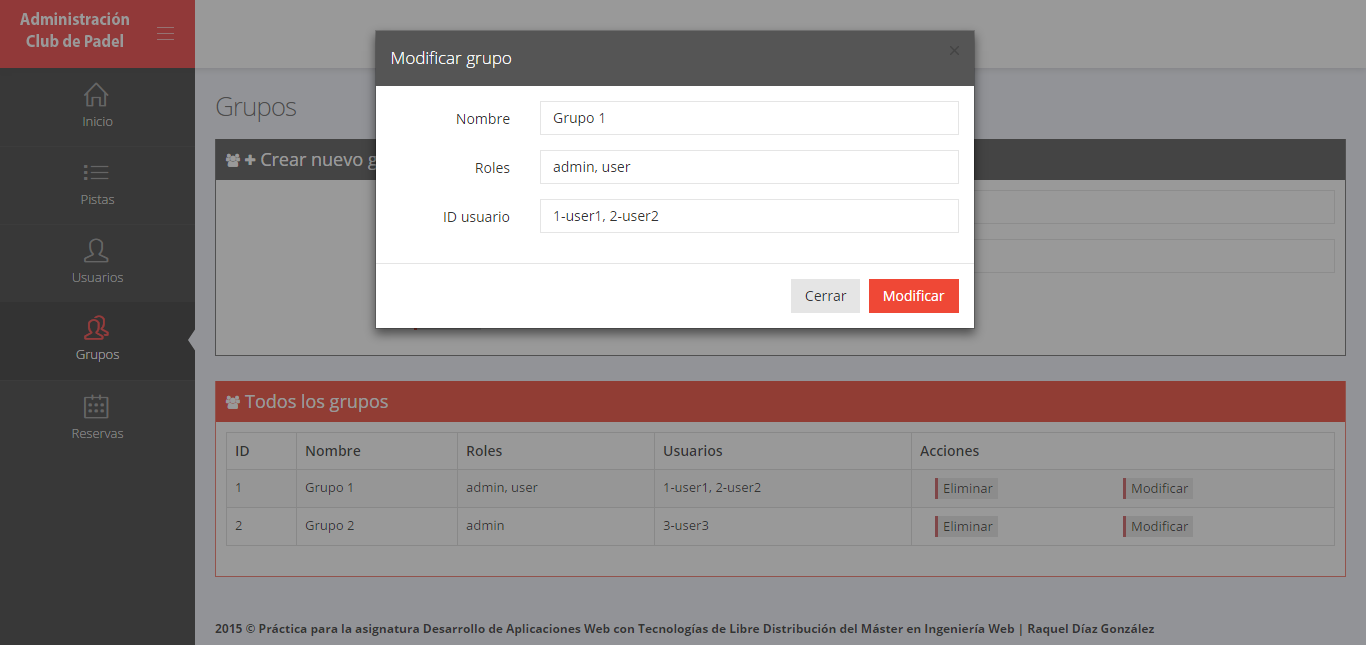
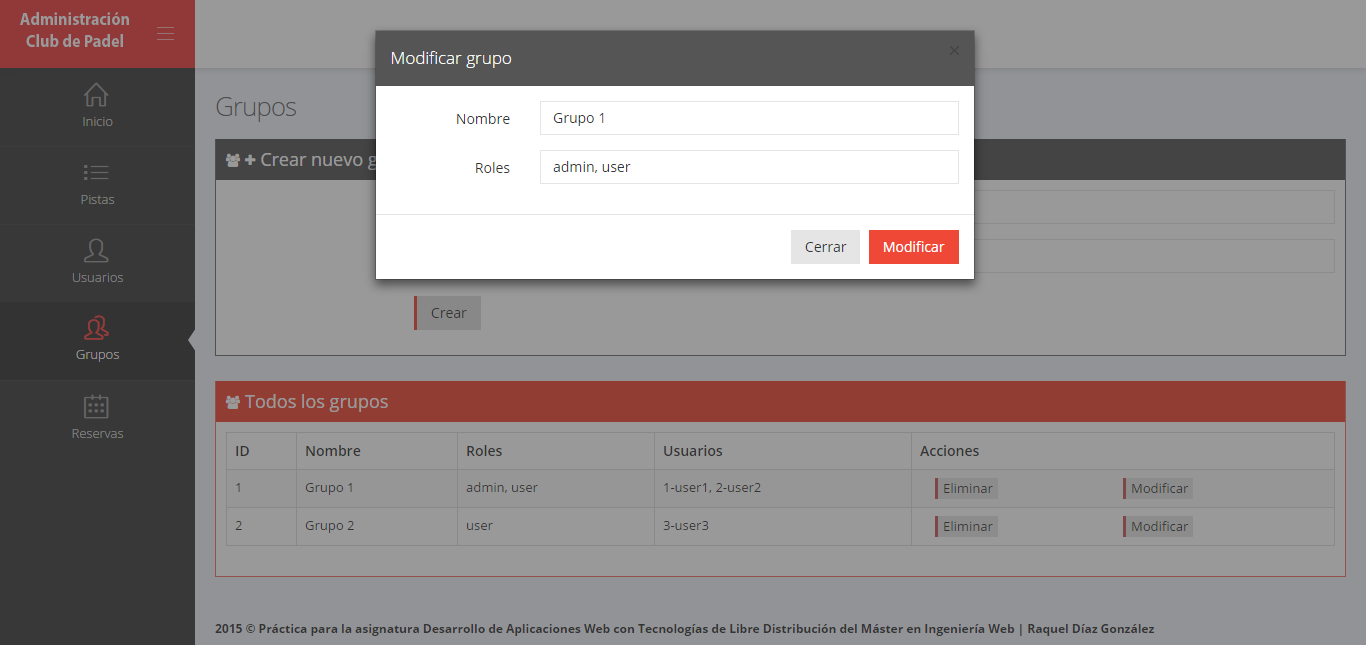
Añadidos campos obligatorios a los formularios

diff --git a/public/templates/admin/users.php b/public/templates/admin/users.php
@@ -32,31 +32,31 @@ $users = $userRepository->findAll();
                                 <div class="form-group">
                                     <label class="col-md-3 control-label">Nombre</label>
                                     <div class="col-md-9">
-                                        <input type="text" class="form-control" placeholder="Nombre de usuario" name="username">
+                                        <input type="text" class="form-control" placeholder="Nombre de usuario" name="username" required>
                                     </div>
                                 </div>
                                 <div class="form-group">
                                     <label class="col-md-3 control-label">Email</label>
                                     <div class="col-md-9">
-                                        <input type="email" class="form-control" placeholder="Email" name="email">
+                                        <input type="email" class="form-control" placeholder="Email" name="email" required>
                                     </div>
                                 </div>
                                 <div class="form-group">
                                     <label class="col-md-3 control-label">Contraseña</label>
                                     <div class="col-md-9">
-                                        <input type="password" class="form-control" placeholder="Contraseña" name="password">
+                                        <input type="password" class="form-control" placeholder="Contraseña" name="password" required>
                                     </div>
                                 </div>
                                 <div class="form-group">
                                     <label class="col-md-3 control-label">Roles</label>
                                     <div class="col-md-9">
-                                        <input type="text" class="form-control" placeholder="Roles ej.) rol1 rol2 rol3 ..." name="roles">
+                                        <input type="text" class="form-control" placeholder="Roles ej.) rol1 rol2 rol3 ..." name="roles" required>
                                     </div>
                                 </div>
                                 <div class="form-group">
                                     <label class="col-md-3 control-label">ID grupo</label>
                                     <div class="col-md-9">
-                                        <input type="text" class="form-control" placeholder="ID del grupo" name="groupID">
+                                        <input type="text" class="form-control" placeholder="ID del grupo" name="groupID" required>
                                     </div>
                                 </div>
                                 <div class="form-group">
@@ -229,31 +229,31 @@ $users = $userRepository->findAll();
                                     <div class="form-group">
                                         <label class="col-md-3 control-label">Nombre</label>
                                         <div class="col-md-9">
-                                            <input type="text" class="form-control" placeholder="Nombre de usuario" name="username" value="<?php echo $user->getUsername(); ?>">
+                                            <input type="text" class="form-control" placeholder="Nombre de usuario" name="username" value="<?php echo $user->getUsername(); ?>" required>
                                         </div>
                                     </div>
                                     <div class="form-group">
                                         <label class="col-md-3 control-label">Email</label>
                                         <div class="col-md-9">
-                                            <input type="email" class="form-control" placeholder="Email" name="email" value="<?php echo $user->getEmail(); ?>">
+                                            <input type="email" class="form-control" placeholder="Email" name="email" value="<?php echo $user->getEmail(); ?>" required>
                                         </div>
                                     </div>
                                     <div class="form-group">
                                         <label class="col-md-3 control-label">Contraseña</label>
                                         <div class="col-md-9">
-                                            <input type="password" class="form-control" placeholder="Contraseña" name="password" value="<?php echo $user->getPassword(); ?>">
+                                            <input type="password" class="form-control" placeholder="Contraseña" name="password" value="<?php echo $user->getPassword(); ?>" required>
                                         </div>
                                     </div>
                                     <div class="form-group">
                                         <label class="col-md-3 control-label">Roles</label>
                                         <div class="col-md-9">
-                                            <input type="text" class="form-control" placeholder="Roles ej.) rol1 rol2 rol3 ..." name="roles" value="<?php echo implode(", ", $user->getRoles()); ?>">
+                                            <input type="text" class="form-control" placeholder="Roles ej.) rol1 rol2 rol3 ..." name="roles" value="<?php echo implode(", ", $user->getRoles()); ?>" required>
                                         </div>
                                     </div>
                                     <div class="form-group">
                                         <label class="col-md-3 control-label">ID grupo</label>
                                         <div class="col-md-9">
-                                            <input type="text" class="form-control" placeholder="ID del grupo" name="groupID"value="<?php echo implode(", ", $user->getGroup()->getValues()); ?>">
+                                            <input type="text" class="form-control" placeholder="ID del grupo" name="groupID"value="<?php echo implode(", ", $user->getGroup()->getValues()); ?>" required>
                                         </div>
                                     </div>
                                 </div>

diff --git a/public/templates/admin/reservations.php b/public/templates/admin/reservations.php
@@ -32,19 +32,19 @@ $reservations = $reservationRepository->findAll();
                                 <div class="form-group">
                                     <label class="col-md-3 control-label">Fecha y hora</label>
                                     <div class="col-md-9">
-                                        <input type="text" class="form-control form-control-inline date form_datetime" size="16" placeholder="Fecha y hora" name="datetime" id="datetime">
+                                        <input type="text" class="form-control form-control-inline date form_datetime" size="16" placeholder="Fecha y hora" name="datetime" id="datetime" required>
                                     </div>
                                 </div>
                                 <div class="form-group">
                                     <label class="col-md-3 control-label">ID pista</label>
                                     <div class="col-md-9">
-                                        <input type="text" class="form-control" placeholder="ID de la pista" name="pistaID">
+                                        <input type="text" class="form-control" placeholder="ID de la pista" name="pistaID" required>
                                     </div>
                                 </div>
                                 <div class="form-group">
                                     <label class="col-md-3 control-label">ID usuario</label>
                                     <div class="col-md-9">
-                                        <input type="text" class="form-control" placeholder="ID del usuario" name="usuarioID">
+                                        <input type="text" class="form-control" placeholder="ID del usuario" name="usuarioID" required>
                                     </div>
                                 </div>
                                 <div class="form-group">
@@ -140,19 +140,19 @@ $reservations = $reservationRepository->findAll();
                                     <div class="form-group">
                                         <label class="col-md-3 control-label">Fecha y hora</label>
                                         <div class="col-md-9">
-                                            <input type="text" class="form-control form-control-inline date form_datetime" size="16" value="<?php $reservation->getDatetime()->format('d-m-Y H:i:s'); ?>" name="datetime" id="datetime">
+                                            <input type="text" class="form-control form-control-inline date form_datetime" size="16" value="<?php $reservation->getDatetime()->format('d-m-Y H:i:s'); ?>" name="datetime" id="datetime" required>
                                         </div>
                                     </div>
                                     <div class="form-group">
                                         <label class="col-md-3 control-label">ID pista</label>
                                         <div class="col-md-9">
-                                            <input type="text" class="form-control" placeholder="ID de la pista" name="pistaID" value="<?php echo $reservation->getCourt(); ?>">
+                                            <input type="text" class="form-control" placeholder="ID de la pista" name="pistaID" value="<?php echo $reservation->getCourt(); ?>" required>
                                         </div>
                                     </div>
                                     <div class="form-group">
                                         <label class="col-md-3 control-label">ID usuario</label>
                                         <div class="col-md-9">
-                                            <input type="text" class="form-control" placeholder="ID del usuario" name="usuarioID" value="<?php echo $reservation->getUser(); ?>">
+                                            <input type="text" class="form-control" placeholder="ID del usuario" name="usuarioID" value="<?php echo $reservation->getUser(); ?>" required>
                                         </div>
                                     </div>
                                 </div>

diff --git a/public/templates/admin/groups.php b/public/templates/admin/groups.php
@@ -32,13 +32,13 @@ $groups = $groupRepository->findAll();
                                 <div class="form-group">
                                     <label class="col-md-3 control-label">Nombre</label>
                                     <div class="col-md-9">
-                                        <input type="text" class="form-control" placeholder="Nombre" name="nombre">
+                                        <input type="text" class="form-control" placeholder="Nombre" name="nombre" required>
                                     </div>
                                 </div>
                                 <div class="form-group">
                                     <label class="col-md-3 control-label">Roles</label>
                                     <div class="col-md-9">
-                                        <input type="text" class="form-control" placeholder="Roles ej.) rol1 rol2 rol3 ..." name="roles">
+                                        <input type="text" class="form-control" placeholder="Roles ej.) rol1 rol2 rol3 ..." name="roles" required>
                                     </div>
                                 </div>
                                 <div class="form-group">
@@ -135,19 +135,13 @@ $groups = $groupRepository->findAll();
                                     <div class="form-group">
                                         <label class="col-md-3 control-label">Nombre</label>
                                         <div class="col-md-9">
-                                            <input type="text" class="form-control" placeholder="Nombre" name="nombre" value="<?php echo $group->getName(); ?>">
+                                            <input type="text" class="form-control" placeholder="Nombre" name="nombre" value="<?php echo $group->getName(); ?>" required>
                                         </div>
                                     </div>
                                     <div class="form-group">
                                         <label class="col-md-3 control-label">Roles</label>
                                         <div class="col-md-9">
-                                            <input type="text" class="form-control" placeholder="Roles ej.) rol1 rol2 rol3 ..." name="roles" value="<?php echo implode(", ", $group->getRoles()); ?>">
-                                        </div>
-                                    </div>
-                                    <div class="form-group">
-                                        <label class="col-md-3 control-label">ID usuario</label>
-                                        <div class="col-md-9">
-                                            <input type="text" class="form-control" placeholder="ID del usuario" name="usuarioID" value="<?php echo implode(", ", $group->getUser()->getValues()); ?>">
+                                            <input type="text" class="form-control" placeholder="Roles ej.) rol1 rol2 rol3 ..." name="roles" value="<?php echo implode(", ", $group->getRoles()); ?>" required>
                                         </div>
                                     </div>
                                 </div>

diff --git a/public/templates/admin/courts.php b/public/templates/admin/courts.php
@@ -36,7 +36,7 @@ $courts = $courtRepository->findAll();
                                         <div class="checkbox-list">
                                             <label class="checkbox-inline">
                                                 <div class="checker">
-                                                    <span><input type="checkbox" name="disponible" value="1"></span>
+                                                    <span><input type="checkbox" name="disponible" value="1" required></span>
                                                 </div>
                                                 Sí
                                             </label>
